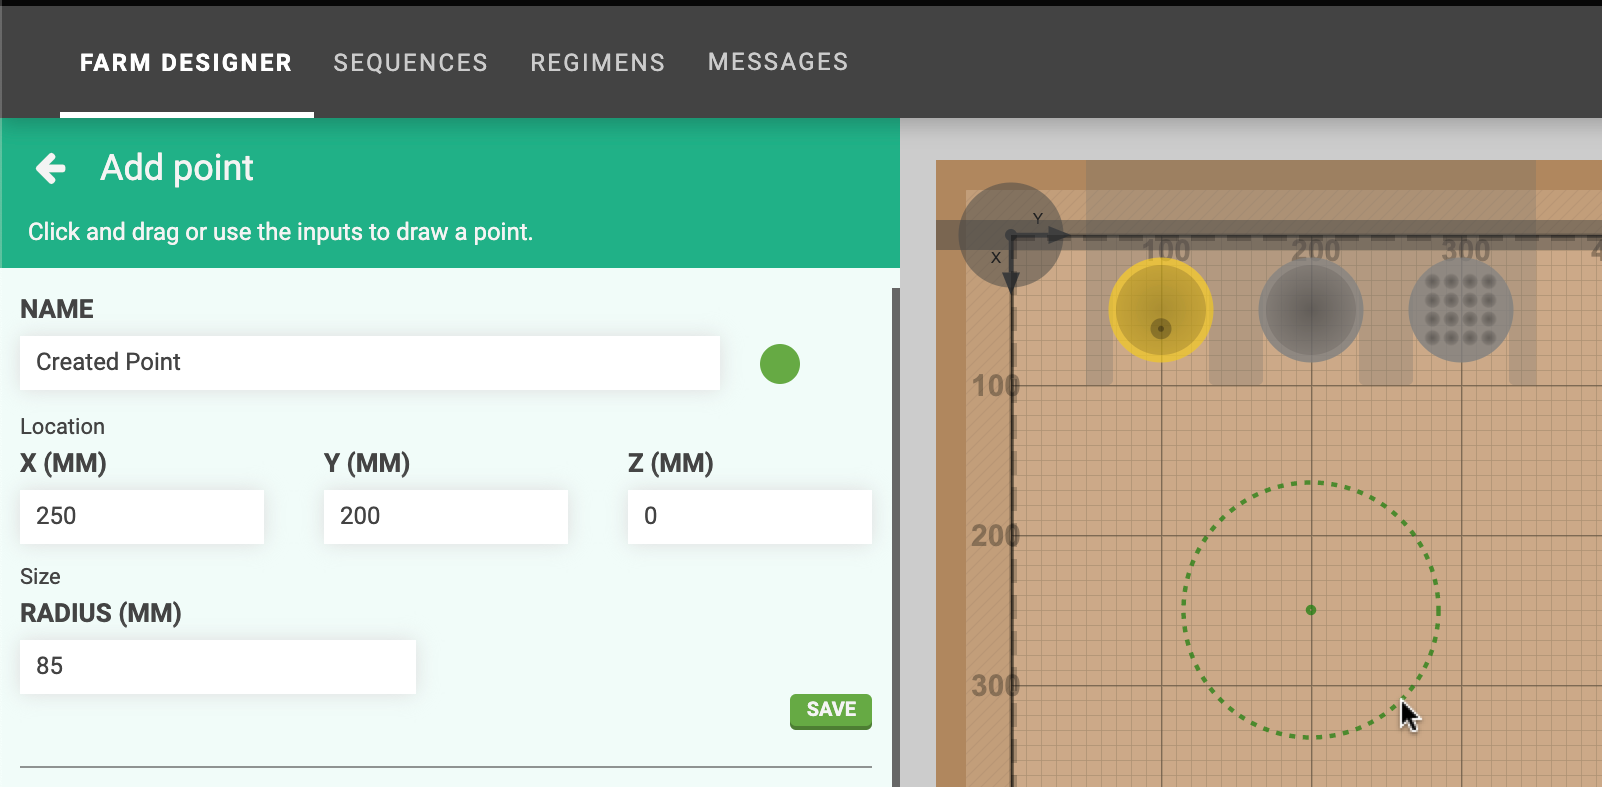
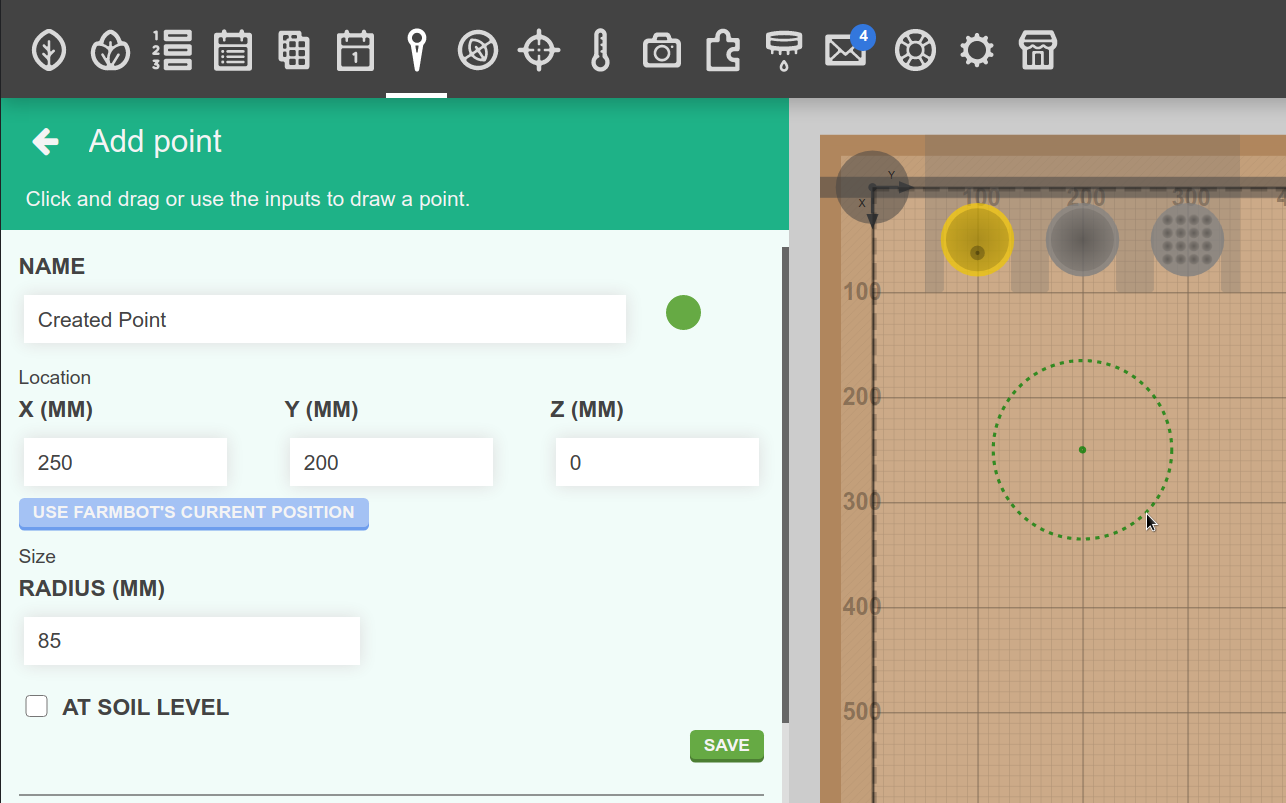
add more what's next and page descriptions

diff --git a/v12/The-FarmBot-Web-App/photos/weed-detection.md b/v12/The-FarmBot-Web-App/photos/weed-detection.md
@@ -1,6 +1,7 @@
 ---
 title: "Weed Detection"
 slug: "weed-detection"
+description: "Detect weeds with FarmBot's camera."
 ---
 
 * toc
@@ -28,14 +29,14 @@ The weed detector software needs a range of color to look for when determining w
 Once an image has been taken with the camera, the weed detector software will process it. There are several processing parameters available (**BLUR**, **MORPH**, and **ITERATION**) that can help you fine tune the system to perform the best in your environment. It is recommended to use the default values at first, run a test, and then experiment with the processing parameter values to see how the results change.
 
 # Step 3: Detect weeds
-Move the FarmBot over a section of soil. Press <span class="fb-button fb-green">detect weeds</span> to instruct FarmBot to take a photo and then process that image with the weed detection software. Any weeds found in the image will appear in the map, and be listed in the weeds panel.
+Move the FarmBot over a section of soil. Press <span class="fb-button fb-green">detect weeds</span> to instruct FarmBot to take a photo and then process that image with the weed detection software. Any weeds found in the image will appear in the map, and be listed as **PENDING** in the weeds panel. See [Weeds](../weeds.md) for additional information.
 
 ![weeds panel and weeds in map](_images/weeds_panel_and_weeds_in_map.png)
 
 <span class="fb-button fb-green">scan current image</span> can be used to run weed detection on an image already taken, instead of taking a new photo.
 
 # Scan the entire garden
-Detect weeds across FarmBot's entire bed by creating a sequence of movements in a grid pattern with a <span class="fb-step fb-run-farmware">detect weeds</span> command at each grid point.
+Detect weeds across FarmBot's entire bed by creating a sequence of movements in a grid pattern with a <span class="fb-step fb-run-farmware">detect weeds</span> command at each grid point. For step-by-step instructions, see the [Scan the Garden for Weeds How-to guide](../../FarmBot-Software/how-to-guides/scan-the-garden-for-weeds.md).
 
 # Remove weeds with FarmBot
 Weed removal can be performed by creating a weed removal sequence that uses the weeding tool on weeds (points) in the farm designer.
@@ -106,3 +107,8 @@ These are some common errors that can occur when doing weed detection.
 **<span class="fa fa-circle red"></span> [plant-detection] ERROR: Coordinate conversion calibration values invalid for provided image.**
 
 This error occurs because the camera was calibrated at a different z-axis height than the current z height. This error can also happen if the camera rotation value was changed significantly after camera calibration. The solution is to move to the calibrated height (usually 0) or re-calibrate the camera.
+
+# What's next?
+
+ * [Scan the Garden for Weeds](../../FarmBot-Software/how-to-guides/scan-the-garden-for-weeds.md)
+ * [Weeds](../weeds.md)

diff --git a/v12/The-FarmBot-Web-App/weeds.md b/v12/The-FarmBot-Web-App/weeds.md
@@ -9,7 +9,7 @@ description: "Manage the weeds found in your garden\n[Open this panel in the app
 
 The **weeds panel** allows you to manage the weeds in your garden. Weeds are divided into three categories:
 
-  * **PENDING** weeds have been detected by FarmBot's camera and are awaiting manual triage. The <span class="fb-button fb-green"><i class='fa fa-check'></i></span> and <span class="fb-button fb-green"><i class='fa fa-check'></i> ALL</span> buttons will move weeds to the **ACTIVE** category while the <span class="fb-button fb-red"><i class='fa fa-times'></i></span> and <span class="fb-button fb-red"><i class='fa fa-times'></i> ALL</span> buttons will delete the weeds.
+  * **PENDING** weeds have been [detected by FarmBot's camera](photos/weed-detection.md) and are awaiting manual triage. The <span class="fb-button fb-green"><i class='fa fa-check'></i></span> and <span class="fb-button fb-green"><i class='fa fa-check'></i> ALL</span> buttons will move weeds to the **ACTIVE** category while the <span class="fb-button fb-red"><i class='fa fa-times'></i></span> and <span class="fb-button fb-red"><i class='fa fa-times'></i> ALL</span> buttons will delete the weeds.
   * **ACTIVE** weeds are weeds currently active in the garden. These weeds were either identified by FarmBot's camera and then triaged into this category, or they were manually added with the <span class="fb-button fb-red"><i class='fa fa-plus'></i></span> button.
   * **REMOVED** weeds are weeds that are no longer a concern. This category should include weeds that have been removed by FarmBot or by hand.
 
@@ -44,3 +44,6 @@ title=""
 content="Weeds cannot be deleted if they are still in-use by any sequences."
 %}
 
+# What's next?
+
+ * [Controls](controls.md)

diff --git a/v12/The-FarmBot-Web-App/points.md b/v12/The-FarmBot-Web-App/points.md
@@ -19,9 +19,14 @@ To add points, click the <span class="fb-button fb-teal"><i class='fa fa-plus'><
 ![empty points panel](_images/empty_points_panel.png)
 
 ## Individual points
-To add an individual point to the map, provide a **name**, **color**, **X and Y coordinates**, and **radius**. Alternatively you can click and drag in the map to define the coordinates and radius. Then click <span class="fb-button fb-green">SAVE</span> to save the point.
+To add an individual point to the map, provide a **name**, **color**, **X and Y coordinates**, and **radius**. Alternatively you can click and drag in the map to define the coordinates and radius. The <span class="fb-button fb-blue">USE FARMBOT'S CURRENT POSITION</span> button can be used if FarmBot is already positioned at a location of interest. Then click <span class="fb-button fb-green">SAVE</span> to save the point.
 
 ![add new point](_images/add_new_point.png)
+
+## Soil height points
+Check the **AT SOIL LEVEL** checkbox to add a special soil height point. Soil height points are automatically added to an expandable item in the points panel where they are sorted by height. Toggling soil height <span class="fb-peripheral-on">ON</span> will show the soil height values in the map.
+
+![soil height points](_images/soil_height_points.png)
 
 ## Grid of points
 To add a grid of points to the map, provide the **name**, **color**, and **radius** for all of the points in the upper portion of the panel. Then provide the grid's **STARTING X and Y** coordinates and the **# OF POINTS** and **SPACING** in each direction. Press **PREVIEW** to preview the grid in the map. If you are satisfied, then press **SAVE**.

diff --git a/v12/The-FarmBot-Web-App/photos.md b/v12/The-FarmBot-Web-App/photos.md
@@ -27,7 +27,7 @@ To take a photo, press the <span class="fb-button fb-green">take photo</span> bu
 
 Once you have taken multiple photos, use the `PREV` and `NEXT` buttons to navigate through your images. To delete a photo, press the <span class="fb-button fb-red"><i class='fa fa-trash'></i></span> button.
 
-Press the <span class="fb-button fb-gray"><i class='fa fa-expand'></i></span> button to open the full screen image viewer.
+Press the <span class="fb-button fb-gray"><i class='fa fa-arrows-alt'></i></span> button to open the full screen image viewer.
 
 Press the <span class="fb-button fb-yellow"><i class='fa fa-repeat'></i></span> button to toggle photo crop and rotation. When enabled, the photo will appear as it does in the map. When disabled, the photo will appear as it was taken by the camera without any adjustments applied.
 
@@ -54,5 +54,8 @@ The <i class='fa fa-eye'></i> icon shows whether or not a photo is displayed in 
 
 # What's next?
 
+ * [Filter map photos](photos/filter-map-photos.md)
+ * [Camera settings](photos/camera-settings.md)
  * [Camera Calibration](photos/camera-calibration.md)
  * [Weed Detection](photos/weed-detection.md)
+ * [Camera Troubleshooting](photos/camera-troubleshooting.md)

diff --git a/v12/The-FarmBot-Web-App/farm-designer.md b/v12/The-FarmBot-Web-App/farm-designer.md
@@ -23,10 +23,12 @@ Click the white <i class='fa fa-arrow-left'></i> button in the top right of the 
 |**FARMBOT**                   |The FarmBot gantry, UTM or tool head, slots, tools, seed containers, peripheral state visualizations, and axis limit lines
 |**PHOTOS**                    |Photos taken by FarmBot's onboard camera. See [camera calibration](photos/camera-calibration.md) if photos are not positioned, scaled, or rotated correctly.
 |**AREAS**                     |Areas defined by [group filters](groups.md#filtering-by-location).
-
+|**Z**                         |Graphical display of FarmBot's current z-axis position and relevant garden levels.
 
 
 ![farm designer with tools panel open](_images/farm_designer_with_tools_panel_open.png)
+
+![map z-axis display](_images/map_z_display.png)
 
 # Move mode
 Pressing the <span class="fb-button fb-gray">MOVE MODE</span> button in the map menu will open the **move to location** panel. Click any spot within the map grid to mark it with an <i class='fa fa-times'></i>. Then press <span class="fb-button fb-gray">MOVE TO THIS COORDINATE</span> to send FarmBot to the selected position. You can optionally enter a new coordinate for the **Z-AXIS**.

diff --git a/v12/The-FarmBot-Web-App/settings/farmbot-settings.md b/v12/The-FarmBot-Web-App/settings/farmbot-settings.md
@@ -1,7 +1,7 @@
 ---
 title: "FarmBot Settings"
 slug: "farmbot-settings"
-description: "[Open these settings in the app](https://my.farm.bot/app/designer/settings?highlight=farmbot)"
+description: "Device name and software updates.\n[Open these settings in the app](https://my.farm.bot/app/designer/settings?highlight=farmbot)"
 ---
 
 * toc
@@ -40,3 +40,7 @@ content="This setting is enabled by default so that your FarmBot will stay updat
 
 # FarmBot OS
 View the version of FarmBot OS that you have installed on your device, that version's release notes, and install updates if they are available using the <span class="fb-button fb-green">UPDATE</span> button. Note that the update button will display as <span class="fb-button fb-gray">UP TO DATE</span> when there are no updates available.
+
+# What's next?
+
+ * [Auto Updates](../../FarmBot-OS/farmbot-os/auto-updates.md)

diff --git a/v12/The-FarmBot-Web-App/settings.md b/v12/The-FarmBot-Web-App/settings.md
@@ -20,8 +20,8 @@ The settings panel contains a bunch of settings that determine how FarmBot moves
  * [Stall Detection](settings/stall-detection.md)
  * [Encoders](settings/encoders.md)
  * [Limit Switches](settings/limit-switches.md)
+ * [Error Handling](settings/error-handling.md)
  * [Pin Bindings](settings/pin-bindings.md)
  * [Pin Guard](settings/pin-guard.md)
- * [Error Handling](settings/error-handling.md)
  * [Parameter Management](settings/parameter-management.md)
  * [Farm Designer Settings](settings/farm-designer-settings.md)

diff --git a/v12/The-FarmBot-Web-App/photos/filter-map-photos.md b/v12/The-FarmBot-Web-App/photos/filter-map-photos.md
@@ -1,6 +1,7 @@
 ---
 title: "Filter map photos"
 slug: "filter-map-photos"
+description: "Choose a time period to display or highlight in the Farm Designer map."
 ---
 
 * toc
@@ -22,3 +23,7 @@ When on, the photo currently displayed in the photos panel image viewer will be 
 # Only show current photo in map
 
 When on, all map photos except the photo currently displayed in the photos panel image viewer will be hidden.
+
+# What's next?
+
+ * [Camera settings](camera-settings.md)

diff --git a/v12/The-FarmBot-Web-App/photos/camera-calibration.md b/v12/The-FarmBot-Web-App/photos/camera-calibration.md
@@ -128,3 +128,7 @@ title=""
 content="Once camera calibration is run, you must always detect weeds with the camera at the same height (z-axis coordinate). Running calibration with the z-axis all the way up is recommended to maximize the camera's field of view."
 %}
 
+# What's next?
+
+ * [Weed Detection](weed-detection.md)
+ * [Scan the Garden for Weeds](../../FarmBot-Software/how-to-guides/scan-the-garden-for-weeds.md)

diff --git a/v12/The-FarmBot-Web-App/photos/camera-settings.md b/v12/The-FarmBot-Web-App/photos/camera-settings.md
@@ -1,6 +1,7 @@
 ---
 title: "Camera settings"
 slug: "camera-settings"
+description: "Select a camera and capture resolution."
 ---
 
 * toc
@@ -26,3 +27,7 @@ Perform camera rotation compensation when image is captured instead of in garden
 # Software
 
 Camera photo capture software can be updated by pressing the **UPDATE** button.
+
+# What's next?
+
+ * [Camera calibration](camera-calibration.md)

diff --git a/v12/The-FarmBot-Web-App/settings/parameter-management.md b/v12/The-FarmBot-Web-App/settings/parameter-management.md
@@ -1,7 +1,7 @@
 ---
 title: "Parameter Management"
 slug: "parameter-management"
-description: "[Open these settings in the app](https://my.farm.bot/app/designer/settings?highlight=parameter_management)"
+description: "Hardware setting sync, import, export, and reset.\n[Open these settings in the app](https://my.farm.bot/app/designer/settings?highlight=parameter_management)"
 ---
 
 * toc

diff --git a/v12/The-FarmBot-Web-App/settings/farm-designer-settings.md b/v12/The-FarmBot-Web-App/settings/farm-designer-settings.md
@@ -1,7 +1,7 @@
 ---
 title: "Farm Designer Settings"
 slug: "farm-designer-settings"
-description: "[Open these settings in the app](https://my.farm.bot/app/designer/settings?highlight=farm_designer)"
+description: "Customize your Farm Designer experience.\n[Open these settings in the app](https://my.farm.bot/app/designer/settings?highlight=farm_designer)"
 ---
 
 * toc
